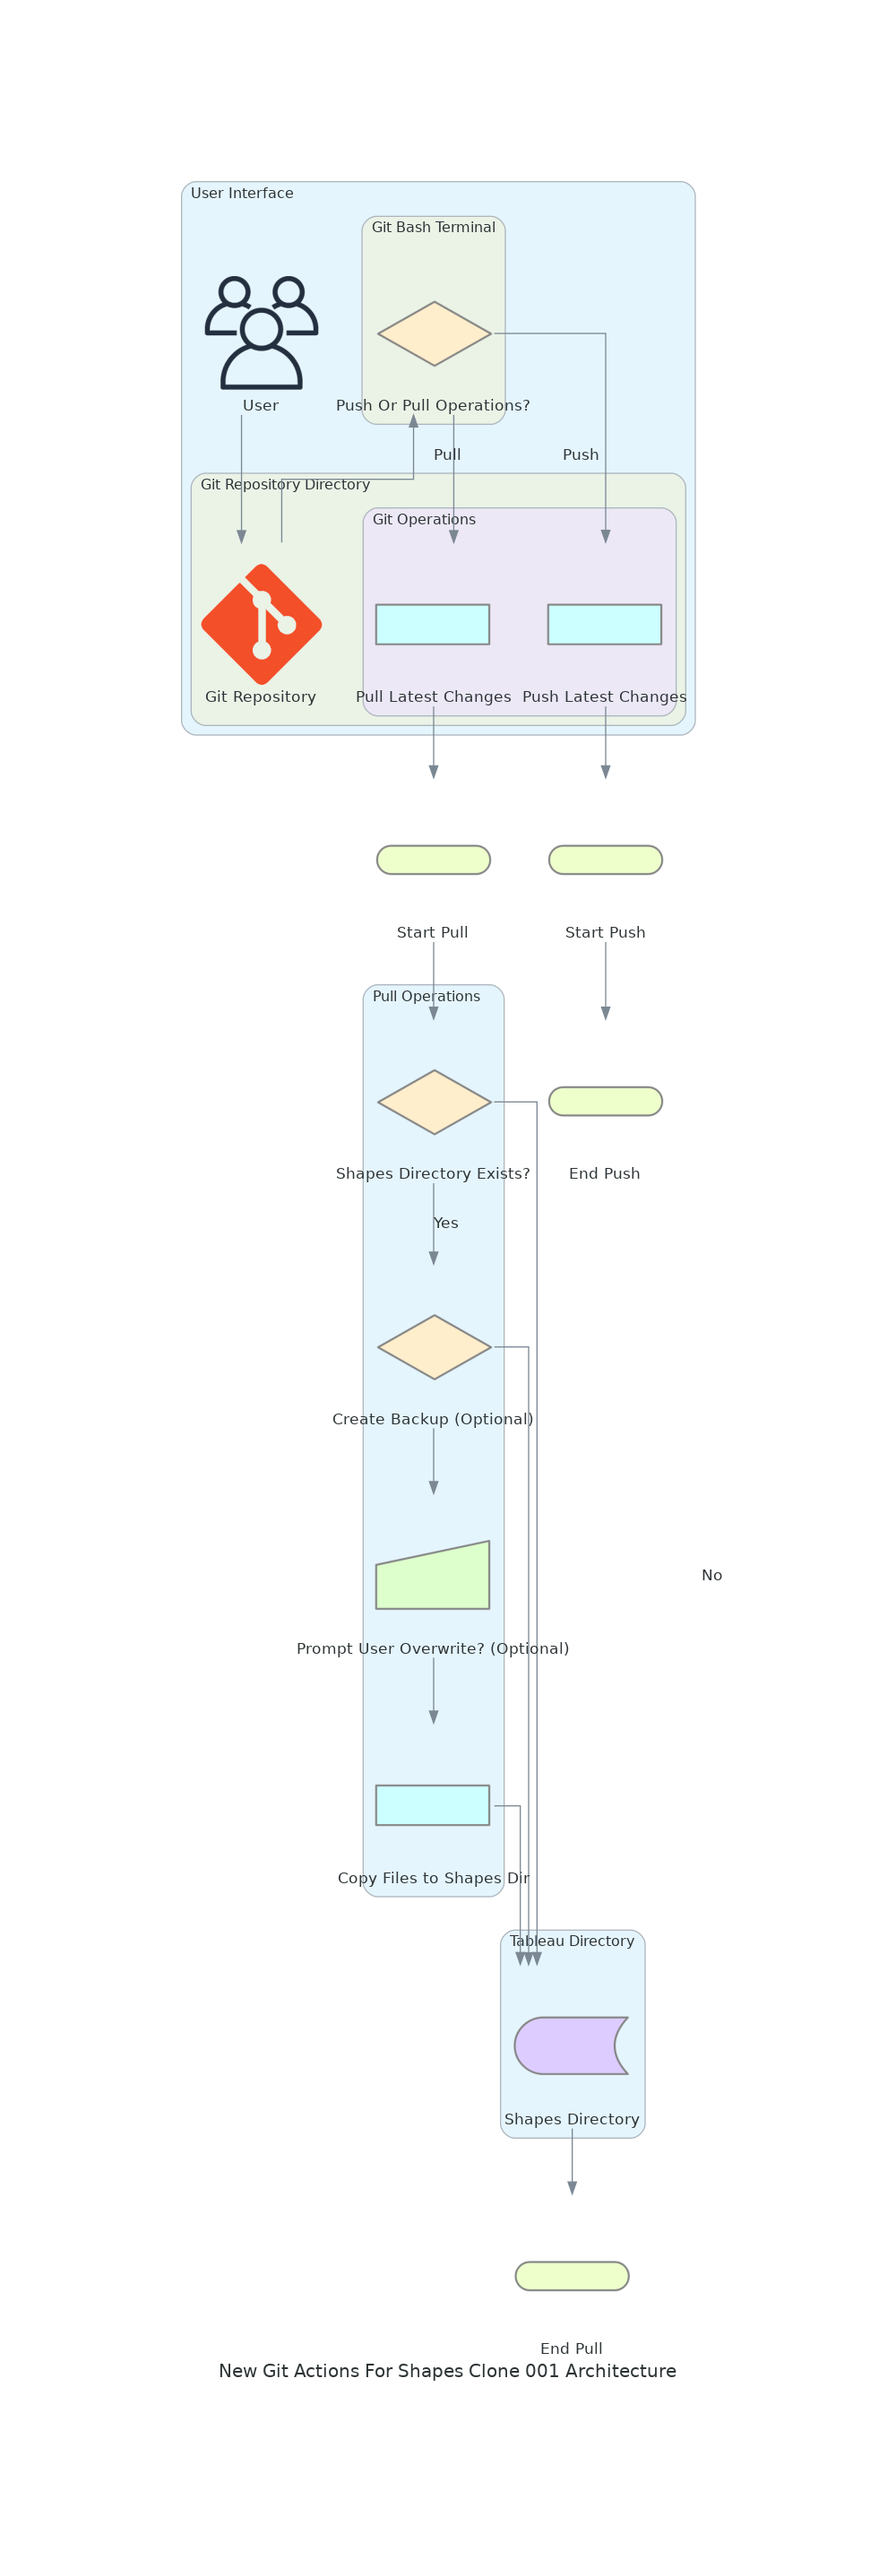
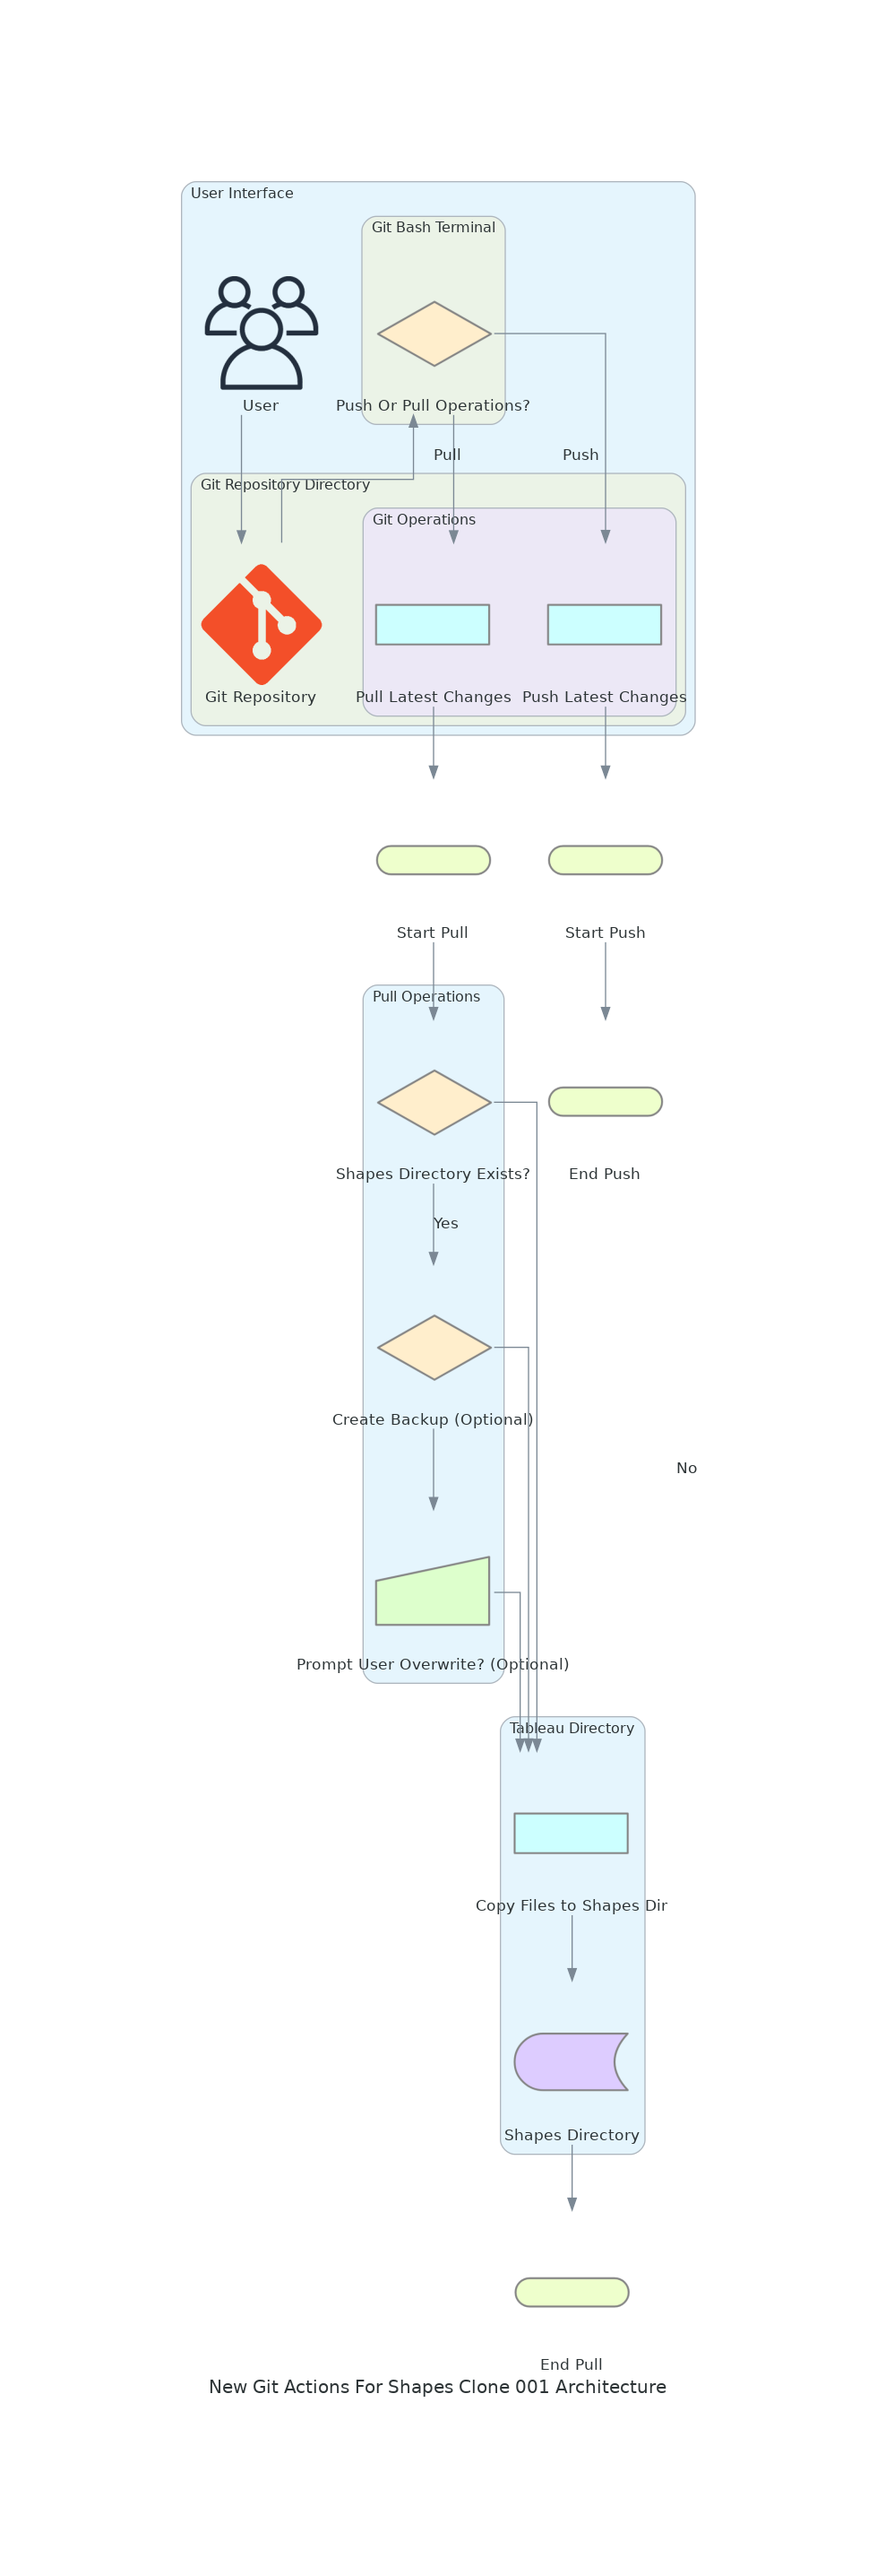
minor change

diff --git a/applications/uscis/shapes.py b/applications/uscis/shapes.py
@@ -10,7 +10,7 @@ from diagrams.onprem.client import Users
 def create_architecture_diagram():
 
     # Define the directory and file path
-    design_name = "New Git Actions for Shapes Clone 001"
+    design_name = "Git Actions for Shapes Clone"
     output_directory = "./diagrams"
     output_file_path = os.path.join(output_directory, f"{design_name.replace(' ', '_')}_diagram")
     print(output_file_path)
@@ -52,13 +52,13 @@ def create_architecture_diagram():
       
         # Tableau Directory and Shapes Folder
         with Cluster("Tableau Directory"):
+            copy_files = Action("Copy Files to Shapes Dir")
             shapes_dir = StoredData("Shapes Directory")
 
         # Pull
         with Cluster("Pull Operations"):
             create_backup = Decision("Create Backup (Optional)")
             prompt_overwrite = ManualInput("Prompt User Overwrite? (Optional)")
-            copy_files = Action("Copy Files to Shapes Dir")
             
             push_or_pull >> Edge(label="Pull") >> pull_changes >> start_pull
             check_shapes_dir = Decision("Shapes Directory Exists?")
@@ -67,8 +67,8 @@ def create_architecture_diagram():
             create_backup >> prompt_overwrite
             prompt_overwrite >> copy_files
             # Interaction with the Shapes Directory
-            check_shapes_dir >> Edge(label="No") >> shapes_dir
-            create_backup >> shapes_dir
+            check_shapes_dir >> Edge(label="No") >> copy_files
+            create_backup >> copy_files
             copy_files >> shapes_dir >> end_pull
         
         # Push 
